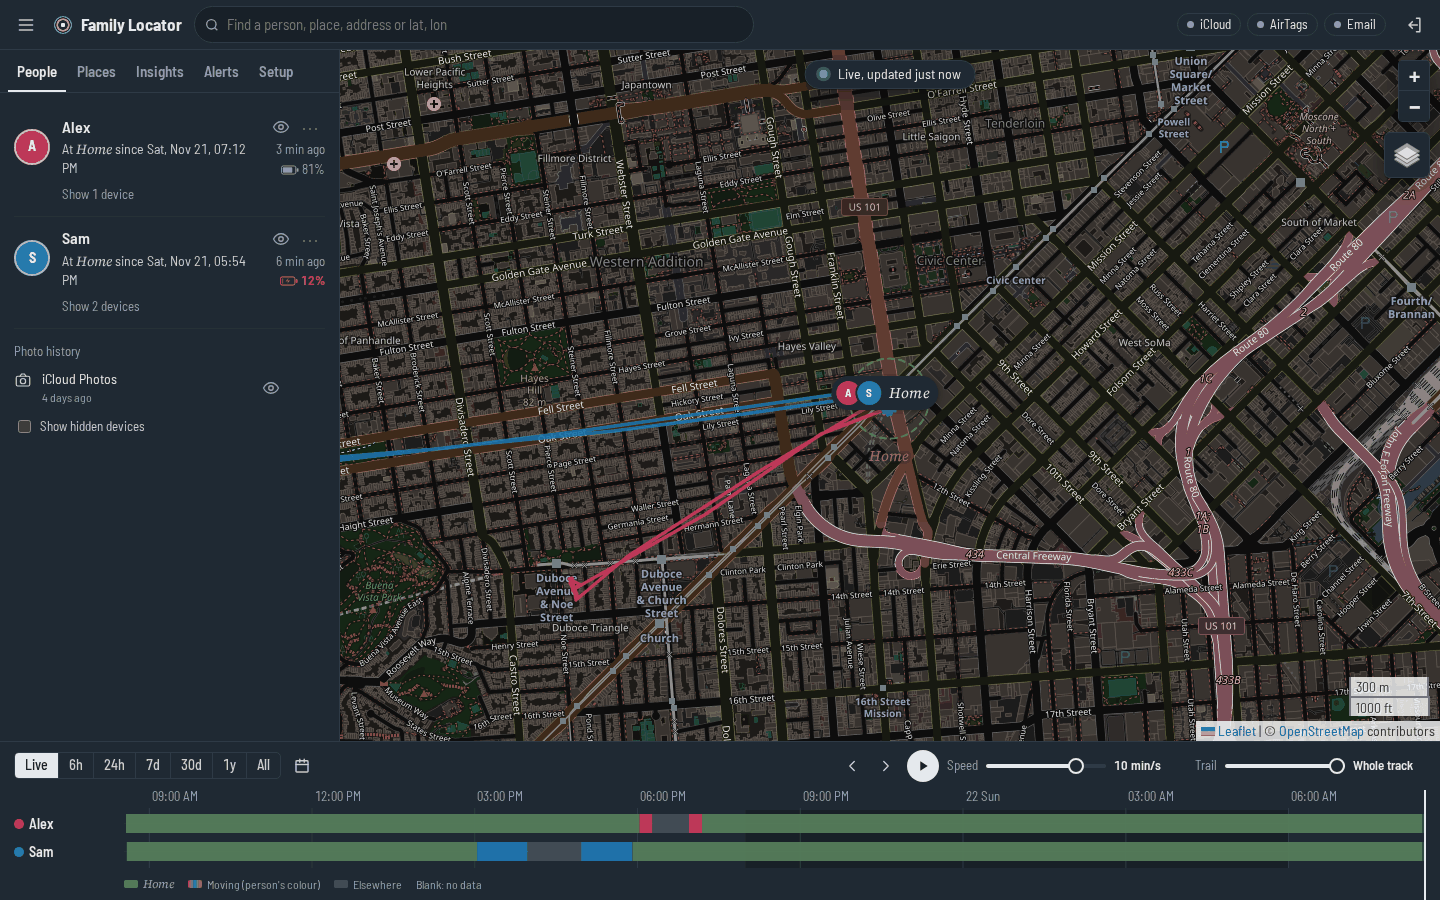
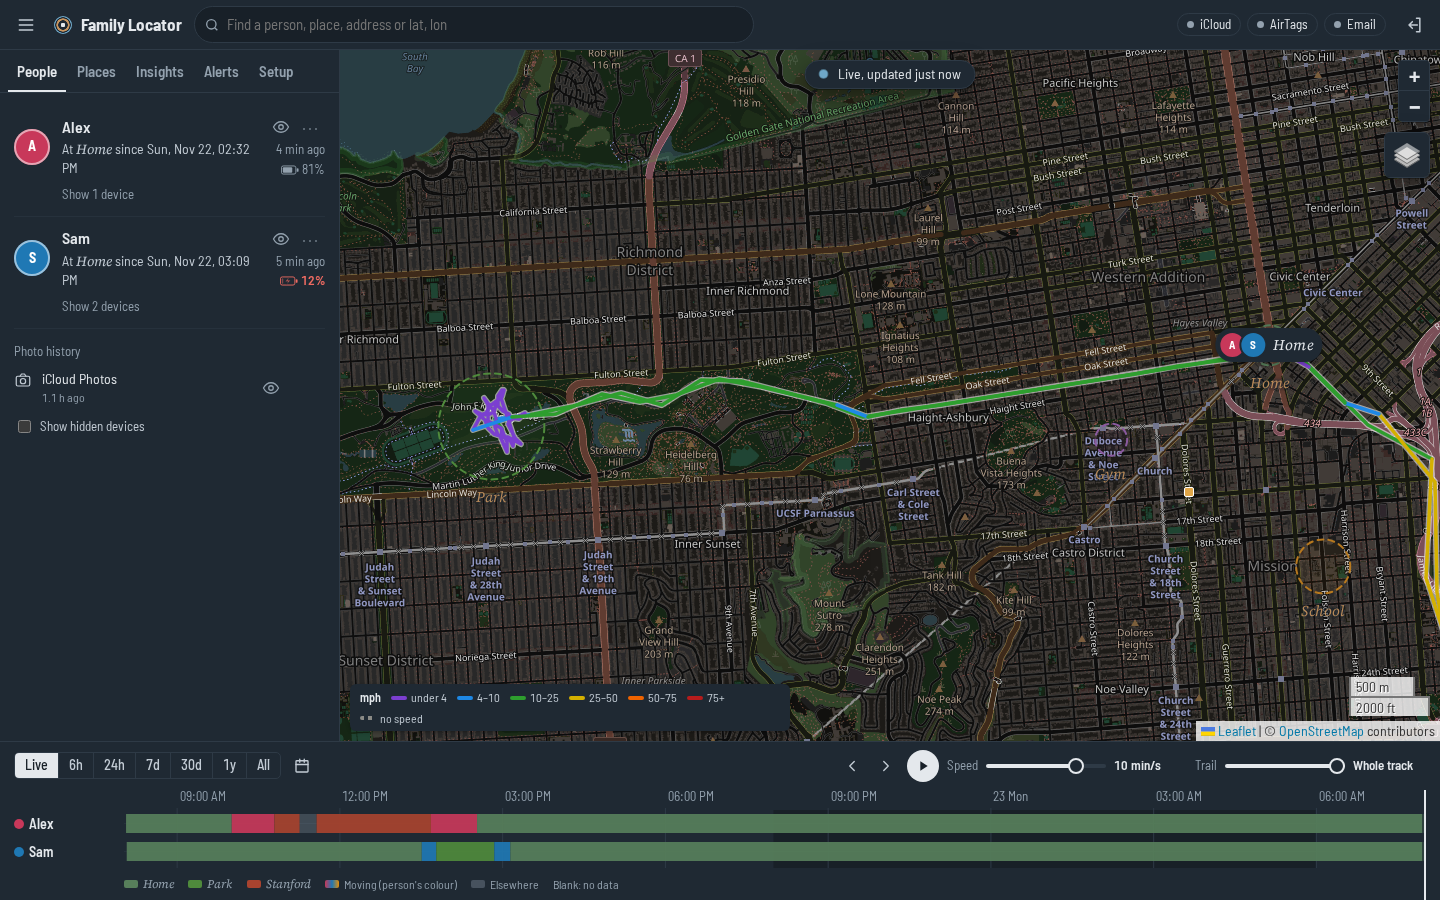
Dark-mode screenshots showing speed tracks, heatmap, places and the phone layout
- Retake every docs image in dark mode; new heatmap.png
- seed_demo: a drive, a bike ride and walks on real road geometry
  (tools/demo_routes.json, OpenStreetMap routing) so every speed band shows
- README: speed feature line, Heatmap | Places row; user guide documents the
  speed-coloured tracks layer; phone doc shows both phone shots

diff --git a/tools/seed_demo.py b/tools/seed_demo.py
@@ -47,11 +47,93 @@ db.upsert_device("icloud:demo3", "icloud", "Sam's Watch", owner="Sam", model="Ap
 walk("icloud:demo1", lambda h, wd: "Work" if 9 <= h < 17 and wd < 5 else ("Gym" if h == 18 else "Home"))
 walk("icloud:demo2", lambda h, wd: "School" if 8 <= h < 15 and wd < 5 else ("Park" if 15 <= h < 17 else "Home"))
 walk("icloud:demo3", lambda h, wd: "School" if 8 <= h < 15 and wd < 5 else "Home", step_s=900)
+# Trips inside the last 24 h on real road geometry (tools/demo_routes.json: routes from
+# routing.openstreetmap.de, map data (c) OpenStreetMap contributors, ODbL), so
+# the speed-coloured tracks show every band: city streets, freeway, a bike ride and walks.
+import json  # noqa: E402
+
+ROUTES = json.loads((Path(__file__).with_name("demo_routes.json")).read_text())
+
+
+def follow(route, t0, pace, step_s=60, reverse=False):
+    """Fixes every ~step_s along route ([lat, lon, t]); pace(mph_at_free_flow) -> multiplier."""
+    pts = route[::-1] if reverse else route
+    if reverse:
+        end = route[-1][2]
+        pts = [[la, lo, end - t] for la, lo, t in pts]
+    # retime each segment by the pace function (OSRM free-flow speed in, demo speed out)
+    out, tt = [(pts[0][0], pts[0][1], 0.0)], 0.0
+    for (a, b, ta), (c, d, tb) in zip(pts, pts[1:]):
+        dt = max(tb - ta, 0.01)
+        mph = math.dist((a, b), (c, d)) * 111_000 / dt * 2.2369
+        tt += dt / pace(mph)
+        out.append((c, d, tt))
+    fixes, k, t = [], 0, 0.0
+    while t <= out[-1][2]:
+        while out[k + 1][2] < t:
+            k += 1
+        (a, b, ta), (c, d, tb) = out[k], out[k + 1]
+        f = 0 if tb == ta else (t - ta) / (tb - ta)
+        fixes.append((t0 + t, a + (c - a) * f, b + (d - b) * f))
+        t += step_s + random.randint(-8, 8)
+    return fixes, t0 + out[-1][2]
+
+
+def wander(centre, t0, minutes, mph=2.4, step_s=60):
+    fixes, pos, hdg, t = [], centre, random.uniform(0, 6.28), t0
+    while t < t0 + minutes * 60:
+        hdg += random.gauss(0, 0.6)
+        if math.dist(pos, centre) > 0.002:
+            hdg = math.atan2(centre[0] - pos[0], centre[1] - pos[1])
+        step = mph / 2.2369 * step_s / 111_000
+        pos = (pos[0] + step * math.sin(hdg), pos[1] + step * math.cos(hdg))
+        fixes.append((t, *pos)); t += step_s + random.randint(-5, 5)
+    return fixes, t
+
+
+def lay(dev_ids, fixes):
+    """Replace everything from the trip's start until now: the trip, then at home (no straight-line
+    schedule walks across town after it)."""
+    lo, hi = fixes[0][0], fixes[-1][0]
+    t, rest = hi + 300, []
+    while t < now:
+        rest.append((t, HOME[0] + random.gauss(0, 0.0001), HOME[1] + random.gauss(0, 0.0001))); t += 300 + random.randint(-30, 30)
+    fixes = fixes + rest
+    for dev in dev_ids:
+        db.x("DELETE FROM points WHERE device_id=? AND ts > ?", (dev, lo - 600))
+        for t, la, lon in fixes:
+            if t < now:
+                db.add_point(dev, t, la + random.gauss(0, 0.00003), lon + random.gauss(0, 0.00003),
+                             acc=random.choice([5, 5, 10, 16]), kind="GPS")
+
+
+def car(mph):   # free-flow -> demo: a bit of traffic in town, quick on the freeway
+    return 1.45 if mph > 50 else (0.8 if mph > 30 else 0.55) * random.uniform(0.8, 1.2)
+
+
+lt = time.localtime(now)                              # trips in daylight: the last 10:00 that leaves room
+day10 = time.mktime((lt.tm_year, lt.tm_mon, lt.tm_mday, 10, 0, 0, 0, 0, -1))
+if now - day10 < 7 * 3600:
+    day10 -= 86400
+t = day10                                            # Alex: SF -> Stanford, a walk, lunch, home
+out, t = follow(ROUTES["drive"], t, car)
+walk1, t2 = follow(ROUTES["walk"], t + 900, lambda mph: 1.0)
+stay, _ = wander(tuple(ROUTES["walk"][0][:2]), t2, 110, mph=0.4, step_s=300)
+back, t3 = follow(ROUTES["drive"], t2 + 112 * 60, car, reverse=True)
+lay(["icloud:demo1"], out + walk1 + stay + back)
+t = day10 + 3.5 * 3600                               # Sam: bike to the park, walk about, bike back
+ride, t = follow(ROUTES["bike"], t, lambda mph: 1.4 * random.uniform(0.85, 1.15))
+park, t = wander(tuple(ROUTES["bike"][-1][:2]), t, 60)
+home, _ = follow(ROUTES["bike"], t, lambda mph: 1.3 * random.uniform(0.85, 1.15), reverse=True)
+lay(["icloud:demo2", "icloud:demo3"], ride + park + home)
+
 db.upsert_device("photos:icloud", "photos", "iCloud Photos", owner="Alex", model="Photo GPS", device_class="Photos")
 for i in range(300):
     p = random.choice(list(PLACES.values()))
     db.add_point("photos:icloud", now - random.uniform(0, 400 * 86400), p[0] + random.gauss(0, 0.01), p[1] + random.gauss(0, 0.01), kind="photo")
-for name, color, r in (("Home", "#577f5b", 150), ("School", "#b7791f", 200), ("Work", "#3f7fa3", 250)):
+PLACES["Stanford"] = tuple(ROUTES["walk"][0][:2])
+for name, color, r in (("Home", "#577f5b", 150), ("School", "#b7791f", 200), ("Work", "#3f7fa3", 250),
+                       ("Gym", "#8a5a9e", 120), ("Park", "#4f8a3c", 400), ("Stanford", "#a8432f", 600)):
     la, lo = PLACES[name]
     db.x("INSERT INTO geofences(name,lat,lon,radius,color,on_enter,on_exit,devices,people) VALUES(?,?,?,?,?,1,1,'[]','[]')",
          (name, la, lo, r, color))

diff --git a/README.md b/README.md
@@ -4,7 +4,7 @@ Where everyone in the family is, where they've been, and an email when they arri
 Family Locator is a self-hosted app for an iCloud Family Sharing group. It keeps a history of Find
 My locations, shows people on a map and a per-person timeline, and sends alerts and a daily summary.
 
-![Family Locator on a desktop: people list, map with tracks, and the per-person timeline](docs/images/overview.png)
+![Family Locator in dark mode: people list, a day's drive coloured by speed, and the per-person timeline](docs/images/overview.png)
 
 *Screenshots use made-up demo data.*
 
@@ -18,6 +18,9 @@ My locations, shows people on a map and a per-person timeline, and sends alerts 
   one marker.
 - **Timeline lanes.** One row per person, coloured by where they were. Drag the timeline to see
   any moment, or press play to watch a day go by.
+- **Speed, in colour.** Tracks are coloured by speed, from purple walking to red on the freeway, and
+  anyone on the move shows their average speed on their marker and in the list. Click someone and
+  the map follows them.
 - **Places and alerts.** Draw Home, School or Work, then get an email when someone arrives or
   leaves. You can limit a place to certain people, for example "only Sam at School".
 - **Follows people while they move.** Each person has their own fresh-location interval. When
@@ -35,9 +38,11 @@ My locations, shows people on a map and a per-person timeline, and sends alerts 
 - **Extras.** AirTag history through FindMy.py (needs keys from a Mac). Past locations backfilled
   from iCloud Photos or a photo folder.
 
-| History with the timeline | On a phone |
+| Playback with the timeline | On a phone |
 |---|---|
-| ![Viewing a past moment: banner with Back to now, hover details on a timeline lane](docs/images/history-lanes.png) | ![Phone layout: map with the people panel as a bottom sheet](docs/images/phone-people.png) |
+| ![Playback on the freeway: the map follows Alex, the marker shows 75 mph, the track is coloured by speed](docs/images/history-lanes.png) | ![Phone layout: full-screen map, speed legend and the folded timeline](docs/images/phone-map.png) |
+| **Heatmap** | **Places** |
+| ![Heatmap of 30 days: home, the park and the routes between](docs/images/heatmap.png) | ![The Places tab with saved places and their circles on the map](docs/images/places.png) |
 
 ## Quick start
 

diff --git a/docs/user-guide.md b/docs/user-guide.md
@@ -93,6 +93,7 @@ Every map zooms to level 22. Past a map's real detail, its last tiles are enlarg
 |---|---|
 | People and items | Person markers and AirTags. |
 | Tracks | Each person's path, from their main device. |
+| Tracks coloured by speed | On by default. Colours each track by how fast they were going: purple walking (under 4 mph), blue to 10, green to 25, yellow to 50, orange to 75, red above. Grey dashes where no speed can be trusted (more than 15 minutes between fixes, or a rough fix). A legend sits bottom left; hover a stretch for its band. |
 | Accuracy circles | How precise each person's fix is. |
 | Every device separately | A small dot for every device, not just each person. |
 | Every fix as a dot | Every saved fix in the range; click one for details. |
@@ -103,6 +104,8 @@ Every map zooms to level 22. Past a map's real detail, its last tiles are enlarg
 | Railways (OpenRailwayMap) | Rail, metro and tram lines on top of any base map, including satellite. |
 
 Your choices are remembered in this browser.
+
+![The heatmap layer over 30 days: the hot spots are home, the park and the routes between](images/heatmap.png)
 
 ## The timeline
 

diff --git a/docs/phone-access.md b/docs/phone-access.md
@@ -1,6 +1,8 @@
 # Phone access
 
-![The app on a phone](images/phone-map.png)
+<img src="images/phone-map.png" alt="The map on a phone, with the timeline folded to one row" width="300"> <img src="images/phone-people.png" alt="The people panel as a bottom sheet on a phone" width="300">
+
+On a phone the timeline folds to one row (range and play); the arrow at its end opens the sliders and lanes. ☰ opens the people panel as a sheet.
 
 On the home network, open `http://<machine>:8790` on any phone. From anywhere else, the app goes
 through the **radio gateway**, which is already reachable from the internet over a Cloudflare tunnel.

diff --git a/CHANGELOG.md b/CHANGELOG.md
@@ -2,6 +2,12 @@
 
 All notable changes to Family Locator. The version is the git tag.
 
+## [Unreleased]
+
+- **New screenshots, in dark mode,** showing speed-coloured tracks, playback following someone at
+  75 mph, the heatmap, places and the phone layout. The demo seeder (`tools/seed_demo.py`) adds a
+  drive, a bike ride and walks on real road geometry so every speed band appears.
+
 ## [1.11.0] -- 2026-11-22
 
 Usable on a phone, the map follows who you click, and tracks are coloured by speed.
